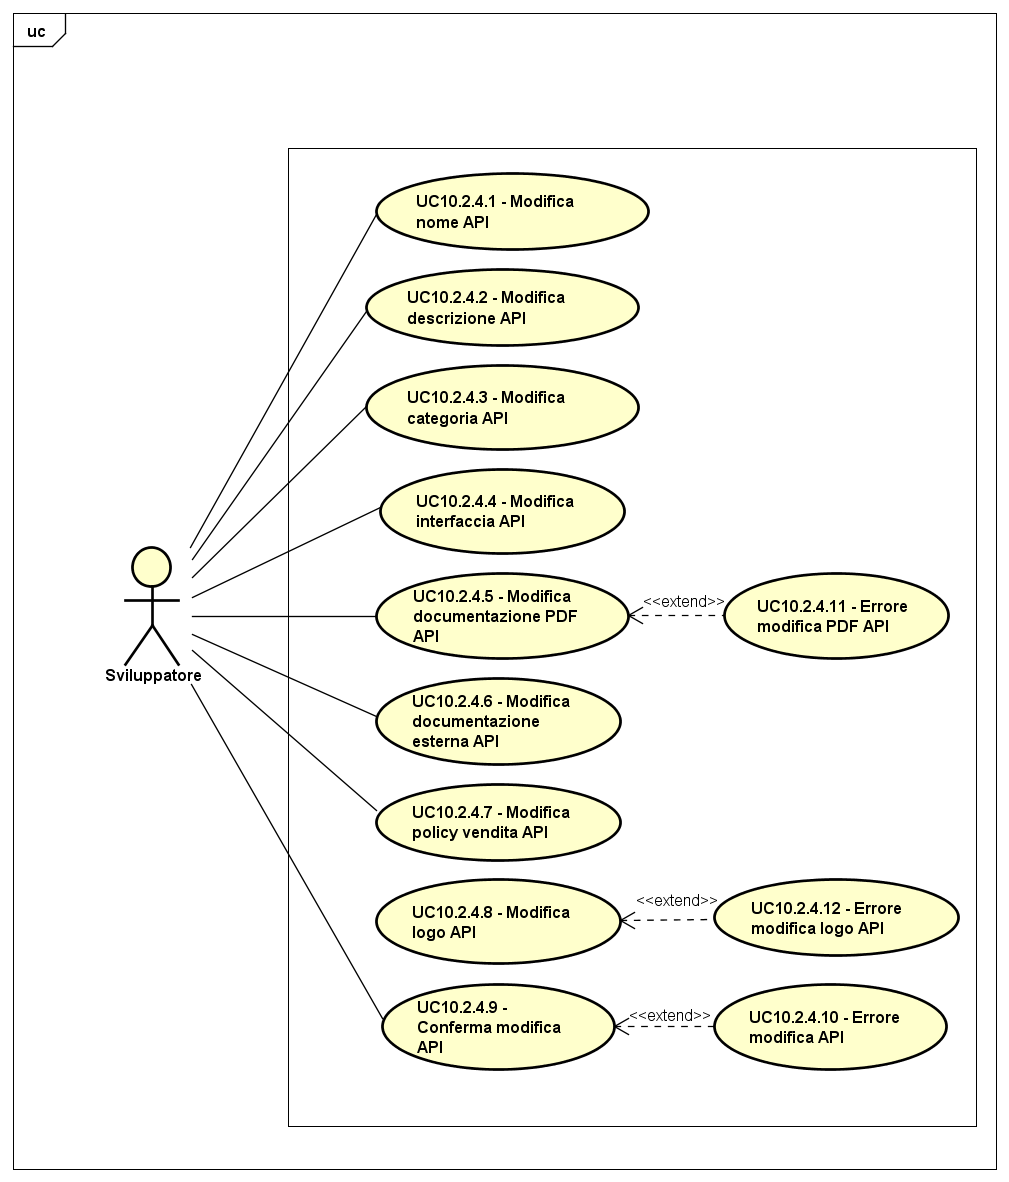
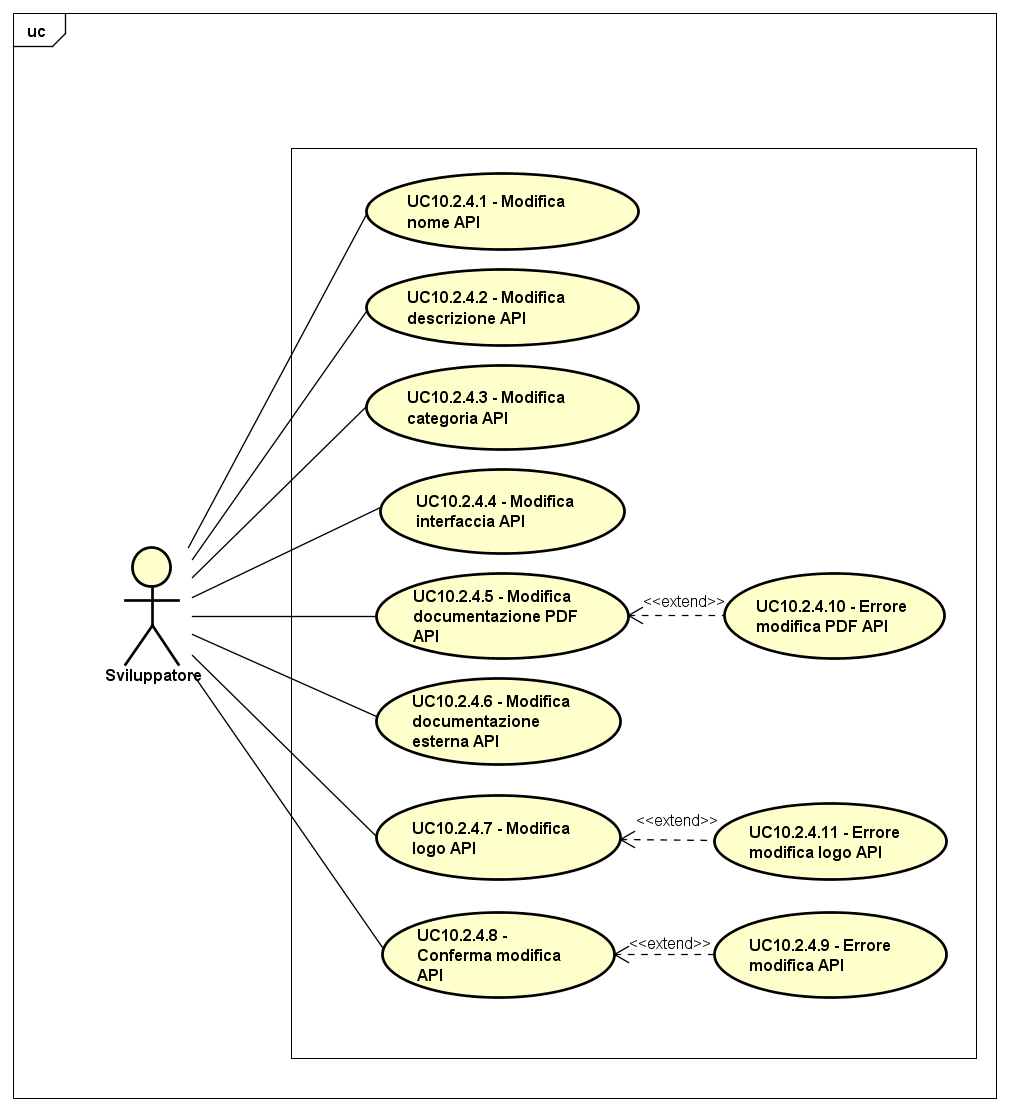
Tolta modifica policy vendita
-modifica policy vendita

diff --git a/Docs/RP/Analisi dei requisiti/includes/UseCase/UC10.tex b/Docs/RP/Analisi dei requisiti/includes/UseCase/UC10.tex
@@ -163,15 +163,14 @@
 			\item L'attore può modificare l'interfaccia dell'API (UC10.2.4.4)
 			\item L'attore può modificare il file per la documentazione PDF (UC10.2.4.5)
 			\item L'attore può modificare il link per la documentazione esterna (UC10.2.4.6)
-			\item L'attore può modificare la policy di vendita dell'API (UC10.2.4.7)
-			\item L'attore può modificare il logo dell'API (UC10.2.4.8)
-			\item L'attore può confermare la modifica dell'API (UC10.2.4.9)
+			\item L'attore può modificare il logo dell'API (UC10.2.4.7)
+			\item L'attore può confermare la modifica dell'API (UC10.2.4.8)
 		\end{enumerate*}\\
 		\textbf{Scenari Alternativi} & 
 		\begin{enumerate*}[label=(\arabic*.),itemjoin={\newline}]
-			\item L'attore può visualizzare un messaggio di errore riguardo al caricamento del file di documentazione PDF dell'API, ed il caricamento del file non avviene (UC10.2.4.11)
-			\item L'attore può visualizzare un messaggio di errore riguardo al caricamento del file del logo dell'API, ed il caricamento del file non avviene (UC10.2.4.12)
-			\item L'attore può visualizzare un messaggio d'errore informativo riguardo la conferma delle modifiche dell'API, e le modifiche non avvengono (UC10.2.4.10)
+			\item L'attore può visualizzare un messaggio di errore riguardo al caricamento del file di documentazione PDF dell'API, ed il caricamento del file non avviene (UC10.2.4.10)
+			\item L'attore può visualizzare un messaggio di errore riguardo al caricamento del file del logo dell'API, ed il caricamento del file non avviene (UC10.2.4.11)
+			\item L'attore può visualizzare un messaggio d'errore informativo riguardo la conferma delle modifiche dell'API, e le modifiche non avvengono (UC10.2.4.9)
 		\end{enumerate*}\\
 	\end{tabular}
 \end{minipage}
@@ -280,14 +279,14 @@
 	\end{tabular}
 \end{minipage}
 
-\subparagraph{Caso d'uso UC10.2.4.11: Errore modifica PDF API}
-\label{UC10_2_4_11}
+\subparagraph{Caso d'uso UC10.2.4.10: Errore modifica PDF API}
+\label{UC10_2_4_10}
 
 \begin{minipage}{\linewidth}
 	\begin{tabular}{ l | p{11cm}}
 		\hline
 		\rowcolor{Gray}
-		\multicolumn{2}{c}{UC10.2.4.11 - Errore modifica PDF API} \\
+		\multicolumn{2}{c}{UC10.2.4.10 - Errore modifica PDF API} \\
 		\hline
 		\textbf{Attori} & Sviluppatore \\
 		\textbf{Descrizione} & L'attore visualizza un messaggio di errore e la modifica della documentazione PDF dell'API non avviene \\
@@ -320,34 +319,14 @@
 	\end{tabular}
 \end{minipage}
 
-\subparagraph{Caso d'uso UC10.2.4.7: Modifica policy vendita API}
+\subparagraph{Caso d'uso UC10.2.4.7: Modifica logo API}
 \label{UC10_2_4_7}
 
 \begin{minipage}{\linewidth}
 	\begin{tabular}{ l | p{11cm}}
 		\hline
 		\rowcolor{Gray}
-		\multicolumn{2}{c}{UC10.2.4.7 - Modifica policy vendita API} \\
-		\hline
-		\textbf{Attori} & Sviluppatore \\
-		\textbf{Descrizione} & L'attore modifica la policy di vendita dell'API \\
-		\textbf{Pre-Condizioni} & L'attore si trova nella schermata relativa alla modifica di una API registrata, precedentemente selezionata \\
-		\textbf{Post-Condizioni} & L'attore ha modificato la policy di vendita dell'API selezionata \\
-		\textbf{Scenario Principale} & 
-		\begin{enumerate*}[label=(\arabic*.),itemjoin={\newline}]
-			\item L'attore può modificare la policy di vendita dell'API
-		\end{enumerate*}\\
-	\end{tabular}
-\end{minipage}
-
-\subparagraph{Caso d'uso UC10.2.4.8: Modifica logo API}
-\label{UC10_2_4_8}
-
-\begin{minipage}{\linewidth}
-	\begin{tabular}{ l | p{11cm}}
-		\hline
-		\rowcolor{Gray}
-		\multicolumn{2}{c}{10.2.4.8 - Modifica logo API} \\
+		\multicolumn{2}{c}{10.2.4.7 - Modifica logo API} \\
 		\hline
 		\textbf{Attori} & Sviluppatore \\
 		\textbf{Descrizione} & L'attore carica su API Market un file contenente il nuovo logo per l'API registrata \\
@@ -359,19 +338,19 @@
 		\end{enumerate*}\\
 		\textbf{Scenari Alternativi} & 
 		\begin{enumerate*}[label=(\arabic*.),itemjoin={\newline}]
-		\item L'attore può visualizzare un messaggio di errore (E.g: formato errato) ed il caricamento del file non avviene (UC10.2.4.12)
+		\item L'attore può visualizzare un messaggio di errore (E.g: formato errato) ed il caricamento del file non avviene (UC10.2.4.11)
 		\end{enumerate*}\\
 	\end{tabular}
 \end{minipage}
 
-\subparagraph{Caso d'uso UC10.2.4.12: Errore inserimento logo API}
-\label{UC10_2_4_12}
+\subparagraph{Caso d'uso UC10.2.4.11: Errore inserimento logo API}
+\label{UC10_2_4_11}
 
 \begin{minipage}{\linewidth}
 	\begin{tabular}{ l | p{11cm}}
 		\hline
 		\rowcolor{Gray}
-		\multicolumn{2}{c}{10.2.4.12 - Errore inserimento logo API} \\
+		\multicolumn{2}{c}{10.2.4.11 - Errore inserimento logo API} \\
 		\hline
 		\textbf{Attori} & Sviluppatore \\
 		\textbf{Descrizione} & L'attore visualizza un messaggio di errore e l'inserimento del nuovo logo per l'API registrata non avviene \\
@@ -384,14 +363,14 @@
 	\end{tabular}
 \end{minipage}
 
-\subparagraph{Caso d'uso UC10.2.4.9: Conferma modifica API}
-\label{UC10_2_4_9}
+\subparagraph{Caso d'uso UC10.2.4.8: Conferma modifica API}
+\label{UC10_2_4_8}
 
 \begin{minipage}{\linewidth}
 	\begin{tabular}{ l | p{11cm}}
 		\hline
 		\rowcolor{Gray}
-		\multicolumn{2}{c}{UC10.2.4.9 - Conferma modifica API} \\
+		\multicolumn{2}{c}{UC10.2.4.8 - Conferma modifica API} \\
 		\hline
 		\textbf{Attori} & Sviluppatore \\
 		\textbf{Descrizione} & L'attore conferma le modifiche all'API, visualizzando un messaggio di successo \\
@@ -404,14 +383,14 @@
 	\end{tabular}
 \end{minipage}
 
-\subparagraph{Caso d'uso UC10.2.4.10: Errore modifica API}
-\label{UC10_2_4_10}
+\subparagraph{Caso d'uso UC10.2.4.9: Errore modifica API}
+\label{UC10_2_4_9}
 
 \begin{minipage}{\linewidth}
 	\begin{tabular}{ l | p{11cm}}
 		\hline
 		\rowcolor{Gray}
-		\multicolumn{2}{c}{UC10.2.4.10 - Errore modifica API} \\
+		\multicolumn{2}{c}{UC10.2.4.9 - Errore modifica API} \\
 		\hline
 		\textbf{Attori} & Sviluppatore \\
 		\textbf{Descrizione} & L'attore visualizza un messaggio di errore informativo e la modifica dell'API non avviene \\
